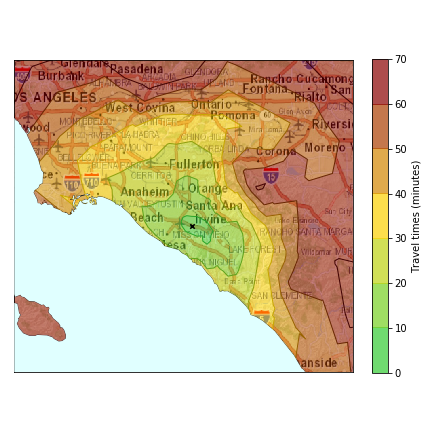
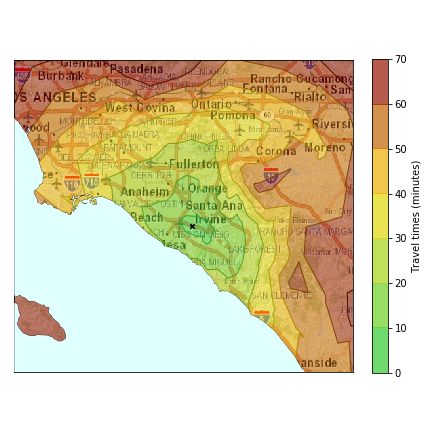
small tweaks

diff --git a/_pages/chronomaps.md b/_pages/chronomaps.md
@@ -42,13 +42,13 @@ gallery_cities:
 
 The purpose of this exercise (hosted on [GitHub](https://github.com/ilmonteux/mapping/blob/master/chronomaps/)) is to generate **chronomaps**, that is, maps where a segment length on the map reflects travel times instead of distances. The end results are shown in the header above.
 
-We will start by using the Google Maps Distance Matrix API to calculate travel times between a starting location and a grid of points around that origin.  This is all we need as input data: first, we can generate fixed travel time contours (isochrones) around the origin. Then, to generate a chronomap, we just need to change the map in the following way. For each point at a given (real) distance from the origin, we remap it to a different point that lies on the same direction but has a different radial distance, which will be given by the travel time to that point from the origin.
+We will start by using the Google Maps Distance Matrix API to calculate travel times between a starting location and a grid of points around that origin.  This is all we need as input data: first, we can generate fixed travel time contours (isochrones) around the origin. Then, to generate a chronomap, we just need to change the map in the following way: for each point at a given (real) distance from the origin, we remap it to a different point that lies on the same direction but has a different radial distance, which will be given by the travel time to that point from the origin.
 
-We can apply this transformation to any map point that we want to remap. First, one could take the map image (for example, with roads and topographical information from the ArcGIS ESRI service) and remap each pixel, but unfortunately the result is very distorted. For example, any text in the map (for roads, cities names) gets distorted because the text spans a large area: the travel times to the points under each side of the text label are different, and so the text gets spanned and distorted.
+We can apply this transformation to any map point that we want to remap. First, one could take the map image (for example, with roads and topographical information from the ArcGIS ESRI service) and remap each pixel, but unfortunately the result is very distorted. For example, any text in the map (labelling roads or cities) gets distorted because the text spans a large area: the travel times to the points under each side of the text label are different, and so the text gets spanned and distorted.
 
-If I had access to the underlying dynamic Google Maps (or ArcGIS) building pipeline, I could indipendently transform any feature of the map, attach labels to the transformed points, and then render the new map. 
+If I had access to the underlying dynamic Google Maps (or ArcGIS) building pipeline, I could independently transform any feature of the map, attach labels to the transformed points, and then render the new map. 
 
-Maybe this can be done with OpenStreetMaps (?), but for the scope of this project, I will build my own map from a short list of features: country and state borders, coastlines, main highways, and the main cities in the range that is being plotted. From the standard map, I will transform each coordinate for all of these features and then render a *chronomap* including all those features. It is straightforward to include other features (some in my mind: counties, forests, topography so mountains can be drawn,)
+Maybe this can be done with OpenStreetMaps (?), but for the scope of this project, I will build my own map from a short list of features: country and state borders, coastlines, main highways, and the main cities in the range that is being plotted. From the standard map, I will transform each coordinate for all of these features and then render a *chronomap* including all those features. It is straightforward to include other features (some in my mind: counties, forests, topography).
 
 Some of the resulting chronomaps are shown above in the header. The rest is shown next in the [Results](#results) section, while the detailed walkthrough explaining how the code runs is below in the [Tutorial](#tutorial) section below.
 
@@ -267,14 +267,15 @@ xx, yy, zz = zip(*[ el for el in zip(x,y,z) if el[-1]!=1000000./60])    # clean 
 Because I made a lot of these plots, I defined a function that does all the work:
 
 ```python 
-def make_contour_map(x,y,z, ax, levels, pos0='', service='ESRI_StreetMap_World_2D', xpixels=500, EPSG = 2229, resolution='l', cbarlabel='Travel Times (minutes)', rebox=0.1, cbarfraction=0.045, cbarextend='max'):
+def make_contour_map(x,y,z, ax, levels, pos0='', service='World_Street_Map', xpixels=500, EPSG = 2229, resolution='l', cbarlabel='Travel Times (minutes)', rebox=0.1, cbarfraction=0.045, cbarextend='max'):
     
     LL , UR = (min(x)+rebox, min(y)+rebox), (max(x)-rebox, max(y)-rebox)
     
     themap = Basemap(llcrnrlon=LL[0],llcrnrlat=LL[1],urcrnrlon=UR[0],urcrnrlat=UR[1], epsg=EPSG, ax=ax, resolution=resolution)
     if service == 'shadedrelief': themap.shadedrelief()
-    else: themap.arcgisimage(service=service,xpixels=xpixels)
-    themap.drawcoastlines(linewidth=0.5)
+    else:
+        try: themap.arcgisimage(service=service,xpixels=xpixels)
+        except: themap.arcgisimage(service='World_Street_Map',xpixels=xpixels)
     
     xm, ym = themap(x,y)
     (z, levels) = (np.array(z)/60., np.array(levels)/60.) if 'hours' in cbarlabel else (z, levels)
@@ -292,7 +293,7 @@ def make_contour_map(x,y,z, ax, levels, pos0='', service='ESRI_StreetMap_World_2
     return ax
 ```
 
-This functions create a Basemap projection (given an EPSG code), draws a background, which by default is `ESRI_StreetMap_World_2D`, then draws contours of `z` over it and puts a legend bar (assumed to be in minutes, but can be in hours if specified). The function `patch_mask_oceans_lakes()` adds a water layer that covers up all the ocean/lakes with a cyan color, where the shorelines are defined by the BaseMap projection (the code comes from [this StackOverflow answer](https://stackoverflow.com/a/48624202)). 
+This functions create a Basemap projection (given an EPSG code), draws a background, which by default is `World_Street_Map `, then draws contours of `z` over it and puts a legend bar (assumed to be in minutes, but can be in hours if specified). The function `patch_mask_oceans_lakes()` adds a water layer that covers up all the oceans/lakes with a cyan color, where the shorelines are defined by the BaseMap projection (the code comes from [this StackOverflow answer](https://stackoverflow.com/a/48624202)). 
 
 The resulting figures are as follows (here I show the full range and then a zoom into the 1-hour range near Irvine):
 
